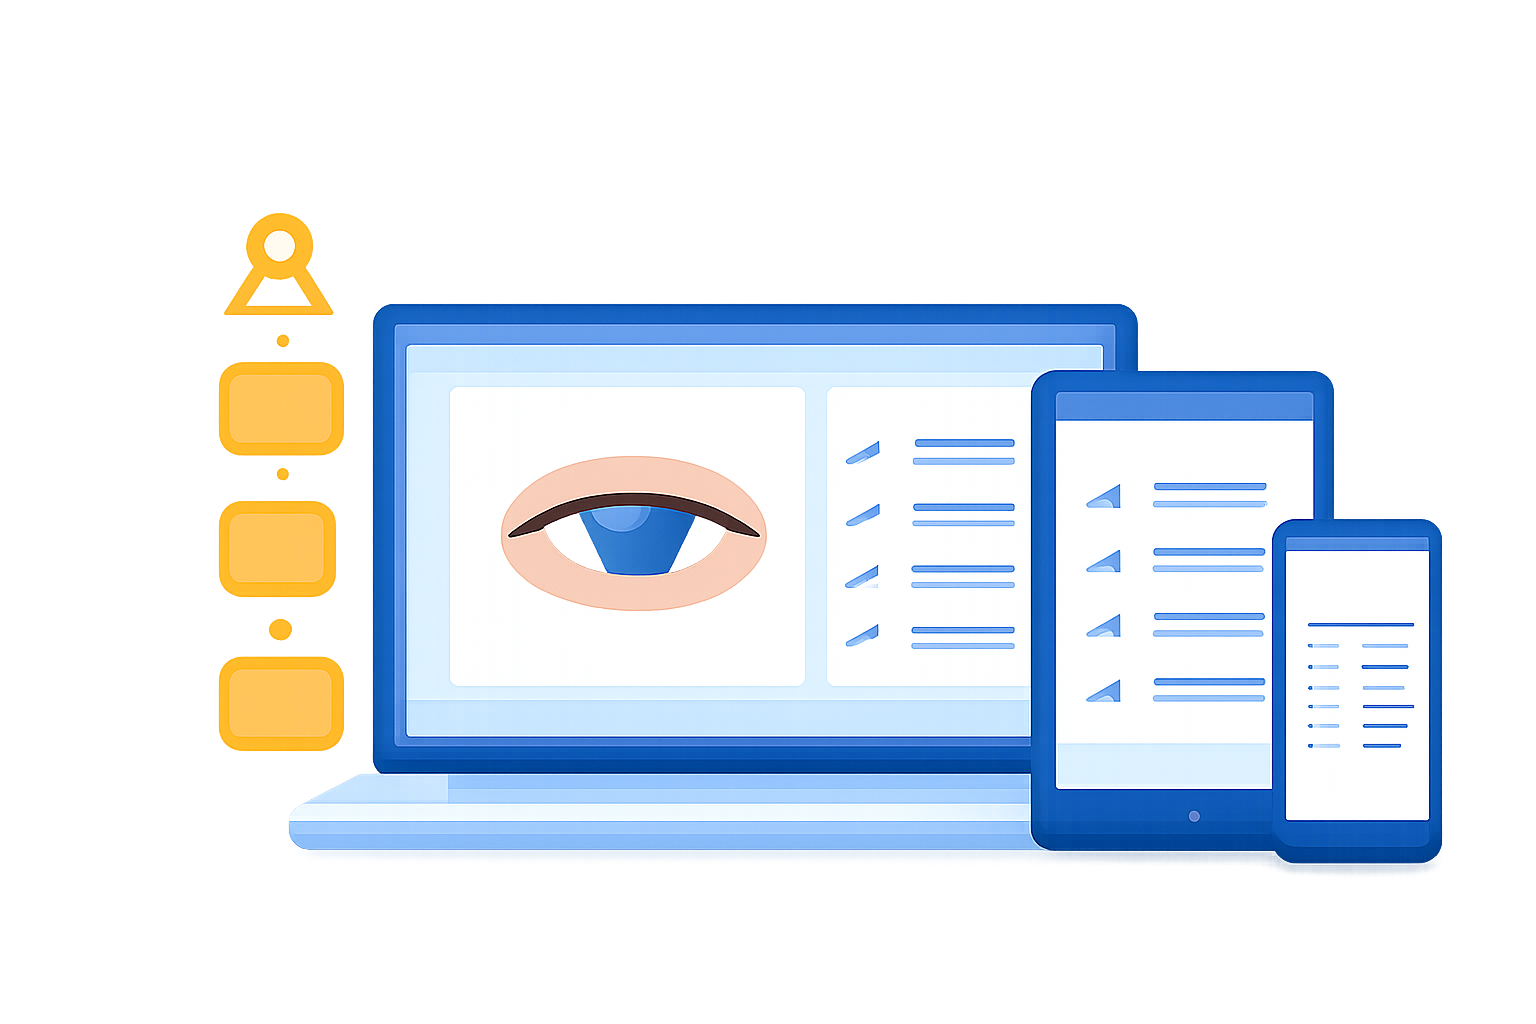
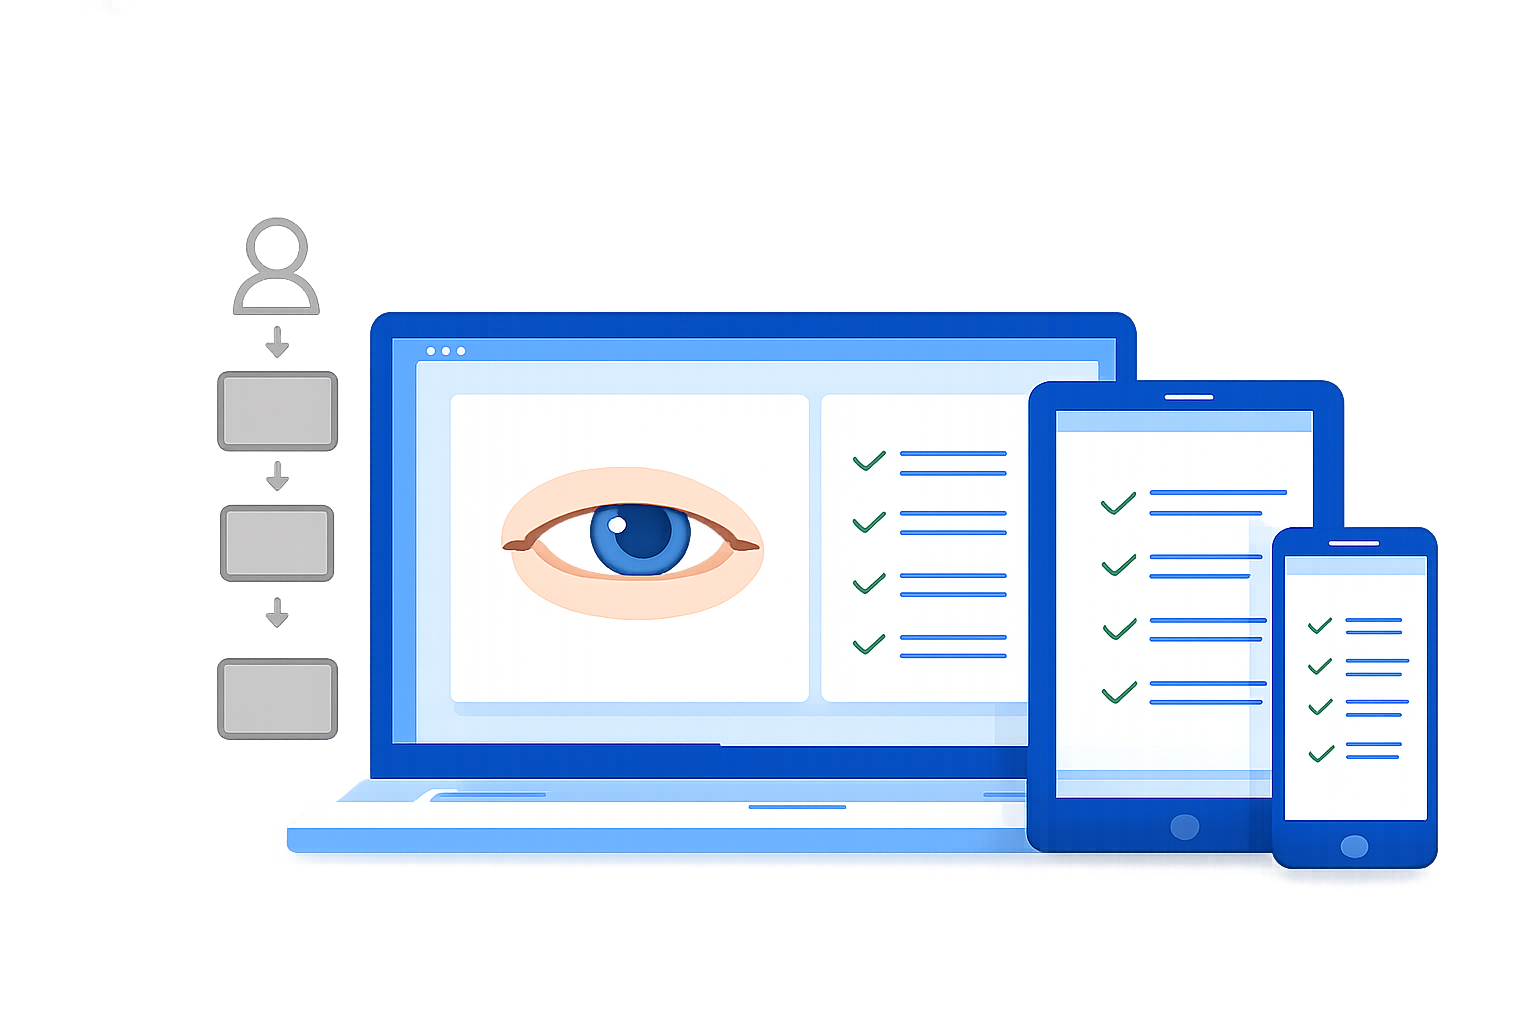
advances with different dryeyenet flavours

Changed region(s): [[0.125, 0.1875, 0.9375, 0.875]]

diff --git a/src/pages/index.tsx b/src/pages/index.tsx
@@ -12,34 +12,29 @@ function HomepageHeader() {
       <div className={styles.heroInner_VWeJ}>
         <div className={styles.heroContentRow}>
           <div className={styles.heroTextCol}>
-            <h1 className={styles.heroProjectTagline_EkV5}>
-              <span className={styles.heroTitleTextHtml_zYwv}>
-                Build <b>optimized</b> websites <b>quickly</b>, focus on your{" "}
-                <b>content</b>
-              </span>
+            <h1>
+              DryEyeNet follows the <b>STFD</b> Principle
             </h1>
+            <span className="explaText">
+              DryEyeNet is built on three core principles: Ease of Use, Data
+              Entry Reliability, and Speed.
+              <br />
+              The Single Flow Task Design (SFTD) places each task at the center
+              of the experience, ensuring a reliable, fast, and intuitive
+              workflow. Available tasks vary depending on the software version
+              and the user role.
+            </span>
+
             <div className={styles.indexCtas_hUA_}>
               <a className="button button--primary" href="/docs">
-                Get Started
+                Begin with the Documentation
               </a>
-              <a
-                href="https://docusaurus.new"
-                target="_blank"
-                rel="noopener noreferrer"
-                className="button button--info"
-              >
-                Try a Demo
-              </a>
-              <span className={styles.indexCtasGitHubButtonWrapper_AOht}>
-                <iframe
-                  className={styles.indexCtasGitHubButton_sMIS}
-                  src="https://ghbtns.com/github-btn.html?user=facebook&amp;repo=docusaurus&amp;type=star&amp;count=true&amp;size=large"
-                  width="160"
-                  height="30"
-                  title="GitHub Stars"
-                ></iframe>
-              </span>
             </div>
+
+            <span className="addedText">
+              <b>Need direct help?</b> Reach us at support@dryeyenet.com or +34
+              630 90 66 82
+            </span>
           </div>
           <div className={styles.heroImageCol}>
             <img
@@ -65,26 +60,56 @@ export default function Home(): ReactNode {
       <main>
         <section
           className={clsx("container", styles.section)}
-          style={{ padding: "3rem 0" }}
+          style={{ padding: "1.5rem 0" }}
         >
-          <Heading as="h2">Welcome to the DryEyeNet Manual</Heading>
-          <p>
-            This manual provides comprehensive guidance for using the DryEyeNet
-            platform, including staff and patient workflows, system features,
-            and best practices for daily operations.
-          </p>
-          <p>
-            Use the navigation menu on the left to access detailed sections on
-            setup, workflows, and troubleshooting.
-          </p>
-          <Heading as="h3">Support</Heading>
-          <p>
-            For questions or technical support, please contact: <br />
-            <strong>Email:</strong>{" "}
-            <a href="mailto:support@smartdryeyes.com">
-              support@smartdryeyes.com
-            </a>
-          </p>
+          <Heading as="h2" className="versionsTitle">
+            Default <span className="brand">DryEyeNet</span> Versions Available
+          </Heading>
+          <div className={styles.featureGrid}>
+            {[
+              {
+                icon: "/img/versions/opto.png",
+                title: "Opto",
+                text: "Version for the Pre-treatment center.",
+                href: "/opto",
+              },
+              {
+                icon: "/img/versions/read.png",
+                title: "Read",
+                text: "Version for the Reading Center.",
+                href: "/read",
+              },
+              {
+                icon: "/img/versions/care.png",
+                title: "Care",
+                text: "Version for the Treatment Provider.",
+                href: "/care",
+              },
+              {
+                icon: "/img/versions/safe.png",
+                title: "Safe",
+                text: "Patient Portal.",
+                href: "/safe",
+              },
+            ].map((block, idx) => (
+              <a key={idx} className={styles.featureBlock} href={block.href}>
+                <div className={styles.featureTitle}>
+                  <img
+                    src={block.icon}
+                    alt=""
+                    className={styles.featureIcon}
+                    width={64}
+                  />
+                </div>
+                <b>{block.title}:</b>
+                <p>
+                  {"  "}
+                  {block.text}
+                </p>
+                <span className="learnMore">Go to Docs</span>
+              </a>
+            ))}
+          </div>
         </section>
       </main>
     </Layout>

diff --git a/docusaurus.config.ts b/docusaurus.config.ts
@@ -88,18 +88,29 @@ const config: Config = {
           label: "Documentation",
         },
         { to: "/stfd", label: "STFD", position: "left" },
-        /*{
-          href: "https://github.com/facebook/docusaurus",
-          label: "GitHub",
-          position: "right",
-        },*/
+        {
+          label: "Versions", // Dropdown label
+          position: "left",
+          items: [
+            { label: "OPTO", to: "/opto" },
+            {
+              label: "READ",
+              href: "/read",
+            },
+            {
+              label: "CARE",
+              href: "/care",
+            },
+            { label: "SAFE", href: "/safe" },
+          ],
+        },
       ],
     },
     footer: {
       style: "dark",
       links: [
         {
-          title: "Docs",
+          title: "DOCUMENTATION",
           items: [
             {
               label: "Documentation",
@@ -108,32 +119,15 @@ const config: Config = {
           ],
         },
         {
-          title: "Community",
+          title: "CONTACT/SUPPORT",
           items: [
             {
-              label: "Stack Overflow",
-              href: "https://stackoverflow.com/questions/tagged/docusaurus",
+              label: "support@smartdryeyes.com",
+              href: "mailto:support@smartdryeyes.com",
             },
             {
-              label: "Discord",
-              href: "https://discordapp.com/invite/docusaurus",
-            },
-            {
-              label: "X",
-              href: "https://x.com/docusaurus",
-            },
-          ],
-        },
-        {
-          title: "More",
-          items: [
-            {
-              label: "Blog",
-              to: "/blog",
-            },
-            {
-              label: "GitHub",
-              href: "https://github.com/facebook/docusaurus",
+              label: "Contact",
+              href: "https://www.smartdryeyes.com/contact-1/",
             },
           ],
         },

diff --git a/src/pages/index.module.css b/src/pages/index.module.css
@@ -253,7 +253,7 @@
   display: flex;
   align-items: center;
   justify-content: space-between;
-  gap: 2rem;
+  gap: 0.2rem;
   width: 100%;
 }
 
@@ -303,7 +303,7 @@
   display: flex;
   flex-wrap: wrap;
   gap: 1rem;
-  justify-content: flex-start;
+  justify-content: center;
   align-items: center;
   margin-top: 1.5rem;
 }
@@ -341,7 +341,7 @@
   .heroContentRow {
     flex-direction: column;
     align-items: center;
-    gap: 1.5rem;
+    gap: 1rem;
   }
   .heroTextCol {
     text-align: center;
@@ -386,5 +386,75 @@
   100% {
     opacity: 1;
     transform: scale(1) rotate(0);
+  }
+}
+
+/*now the grid*/
+
+.featureGrid {
+  display: grid;
+  grid-template-columns: repeat(4, 1fr);
+  gap: 2rem;
+  margin: 2.5rem 0;
+}
+.featureGrid p {
+  font-size: 18px;
+  align-self: flex-start;
+  text-align: left;
+}
+
+.featureGrid b {
+  text-transform: uppercase;
+  align-self: flex-start;
+  color: #414141;
+}
+
+.featureBlock {
+  border-radius: 3px;
+  padding: 1.5rem 1rem;
+  border: 1px solid #dadce0;
+  color: black;
+  /*  background: #f7f8fa;
+  box-shadow: 0 2px 8px rgba(0, 0, 0, 0.04);*/
+  text-align: center;
+  display: flex;
+  flex-direction: column;
+  align-items: center;
+}
+
+.featureBlock:hover {
+  box-shadow: 0 4px 16px rgba(0, 0, 0, 0.1);
+  cursor: pointer;
+  text-decoration: none;
+}
+
+.featureTitle {
+  display: flex;
+  align-items: center;
+  gap: 0.75rem;
+  font-size: 1.2rem;
+  font-weight: 600;
+  margin-bottom: 1rem;
+}
+
+.featureIcon {
+  width: 64px;
+  object-fit: contain;
+}
+
+@media (max-width: 900px) {
+  .featureGrid {
+    grid-template-columns: repeat(2, 1fr);
+    gap: 1.5rem;
+  }
+}
+
+@media (max-width: 600px) {
+  .featureGrid {
+    grid-template-columns: 1fr;
+    gap: 1rem;
+  }
+  .featureBlock {
+    padding: 1.2rem 0.5rem;
   }
 }

diff --git a/src/css/custom.css b/src/css/custom.css
@@ -93,3 +93,83 @@ a.card h2 {
     padding-right: 1rem !important;
   }
 }
+
+h2.versionsTitle {
+  text-align: center;
+  font-size: 2.2rem !important;
+  font-weight: 400;
+  margin-bottom: 1.5rem;
+}
+
+span.brand {
+  color: #1a62b0;
+}
+
+a.button.button--primary {
+  border-radius: 3px;
+  background-color: #1a62b0;
+  font-size: 18px;
+  font-weight: 500;
+}
+
+.hero_syme_doc6 h1 {
+  font-size: 3rem !important;
+  font-weight: 300 !important;
+  padding-bottom: 1rem;
+}
+.hero_syme_doc6 h1 b {
+  color: #1a62b0;
+}
+
+span.explaText {
+  font-size: 1.15rem;
+}
+
+span.addedText {
+  display: block;
+  margin-top: 1.5rem;
+  font-size: 1rem;
+}
+
+span.learnMore {
+  display: inline-block;
+  font-size: 0.95rem;
+  font-weight: 500;
+  color: #1a62b0;
+  align-self: flex-start;
+  margin-top: auto;
+}
+
+.featureBlock_QltR {
+  background: #fdfdfd;
+  border-color: #f2f2f2;
+}
+.featureBlock_QltR b {
+  font-size: 1.1rem;
+  font-weight: 600;
+}
+
+.featureBlock_QltR:nth-child(1) b {
+  /*border-color: #cfe4dc;
+  background-color: #fcfdfe;*/
+  color: #02525b;
+}
+
+.featureBlock_QltR:nth-child(2) b {
+  /*background-color: #f8fbff;
+  border-color: #c3d9f0;*/
+
+  color: #000f92;
+}
+
+.featureBlock_QltR:nth-child(3)b {
+  /*background-color: #fffdf8;
+  border-color: #f2cf9a;*/
+  color: #f5a100;
+}
+
+.featureBlock_QltR:nth-child(4) b {
+  /*background-color: #fffafa;
+  border-color: #f2b3b3;*/
+  color: #e70101;
+}
